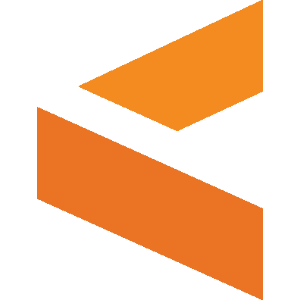
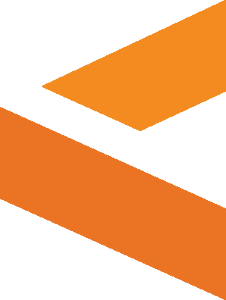
No more BS!

diff --git a/scripts/main.js b/scripts/main.js
@@ -5,23 +5,6 @@
       chooseUs: $('#choose-us-template').html(),
     }
 
-    // center sections of the app
-    function centerize() {
-      var max = 0;
-      var $hero = $('.hero');
-      $hero.find('p').each(function(i, p) {
-        var current = $(p).width();
-        if (current > max) max = current;
-      });
-      $hero.width(max);
-    }
-
-    function progressiveFix() {
-      for (var delay = 10; delay < 1000; delay *= 2) {
-        setTimeout(centerize, delay);
-      }
-    }
-
     // Initialize fullpage.js
     $('#fullpage').fullpage({
       anchors: ['', 'choose-us', 'solutions', 'capabilities', 'careers', 'contact'],
@@ -30,10 +13,7 @@
       controlArrows: false,
       verticalCentered: true,
       paddingBottom: '85px',
-      responsiveHeight: 400,
-      afterResize: progressiveFix,
-      afterRender: progressiveFix,
-      onLeave: progressiveFix
+      responsiveHeight: 400
     });
 
     // Initialize responsive font sizes

diff --git a/index.html b/index.html
@@ -70,10 +70,10 @@
         <div class="row">
           <div class="col-xs-12">
             <div class="hero">
-              <p class="orange">PROBLEM SOLVING</p>
-              <p class="orange">IS WHAT WE DO</p>
-              <p class="white">SOFTWARE IS HOW</p>
-              <p class="white">WE DO IT</p>
+              <span class="orange text">PROBLEM SOLVING</span>
+              <span class="orange text">IS WHAT WE DO</span>
+              <span class="white text">SOFTWARE IS HOW</span>
+              <span class="white text">WE DO IT</span>
             </div>
           </div>
         </div>

diff --git a/css/structure.css b/css/structure.css
@@ -9,9 +9,10 @@ body {
 
 .hero {
   margin: 40px auto;
+  width: 24em;
 }
 
-.hero > p {
+.hero .text {
   font-weight: 900;
   font-size: 2.5em;
   line-height: 0.7;
@@ -154,7 +155,7 @@ p {
 }
 
 img.logo-mark {
-  width: 150px;
+  width: 113px;
   height: 150px;
   margin: 60px 0 20px;
 }

diff --git a/css/responsive.css b/css/responsive.css
@@ -29,7 +29,6 @@
     font-size: 18px;
   }
 
-
   .menu ul li a .text {
     display: none;
   }
